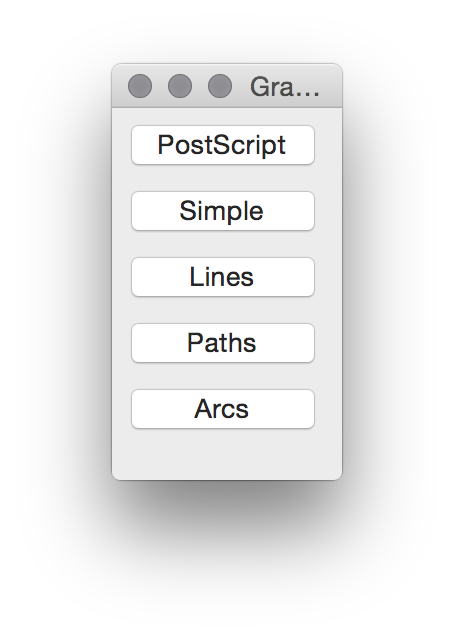
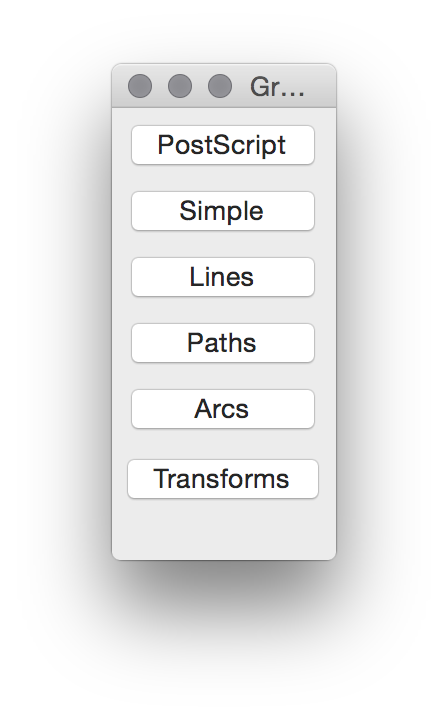
updated readme with the new transform window

diff --git a/README.md b/README.md
@@ -55,6 +55,13 @@ and tweakable settings.
 ![](assets/arcs-window.png)
 
 
+Transforms
+----------
+Transformations are a-fine thing.
+
+![](assets/transforms-window.png)
+
+
 
 PostScript
 ----------
